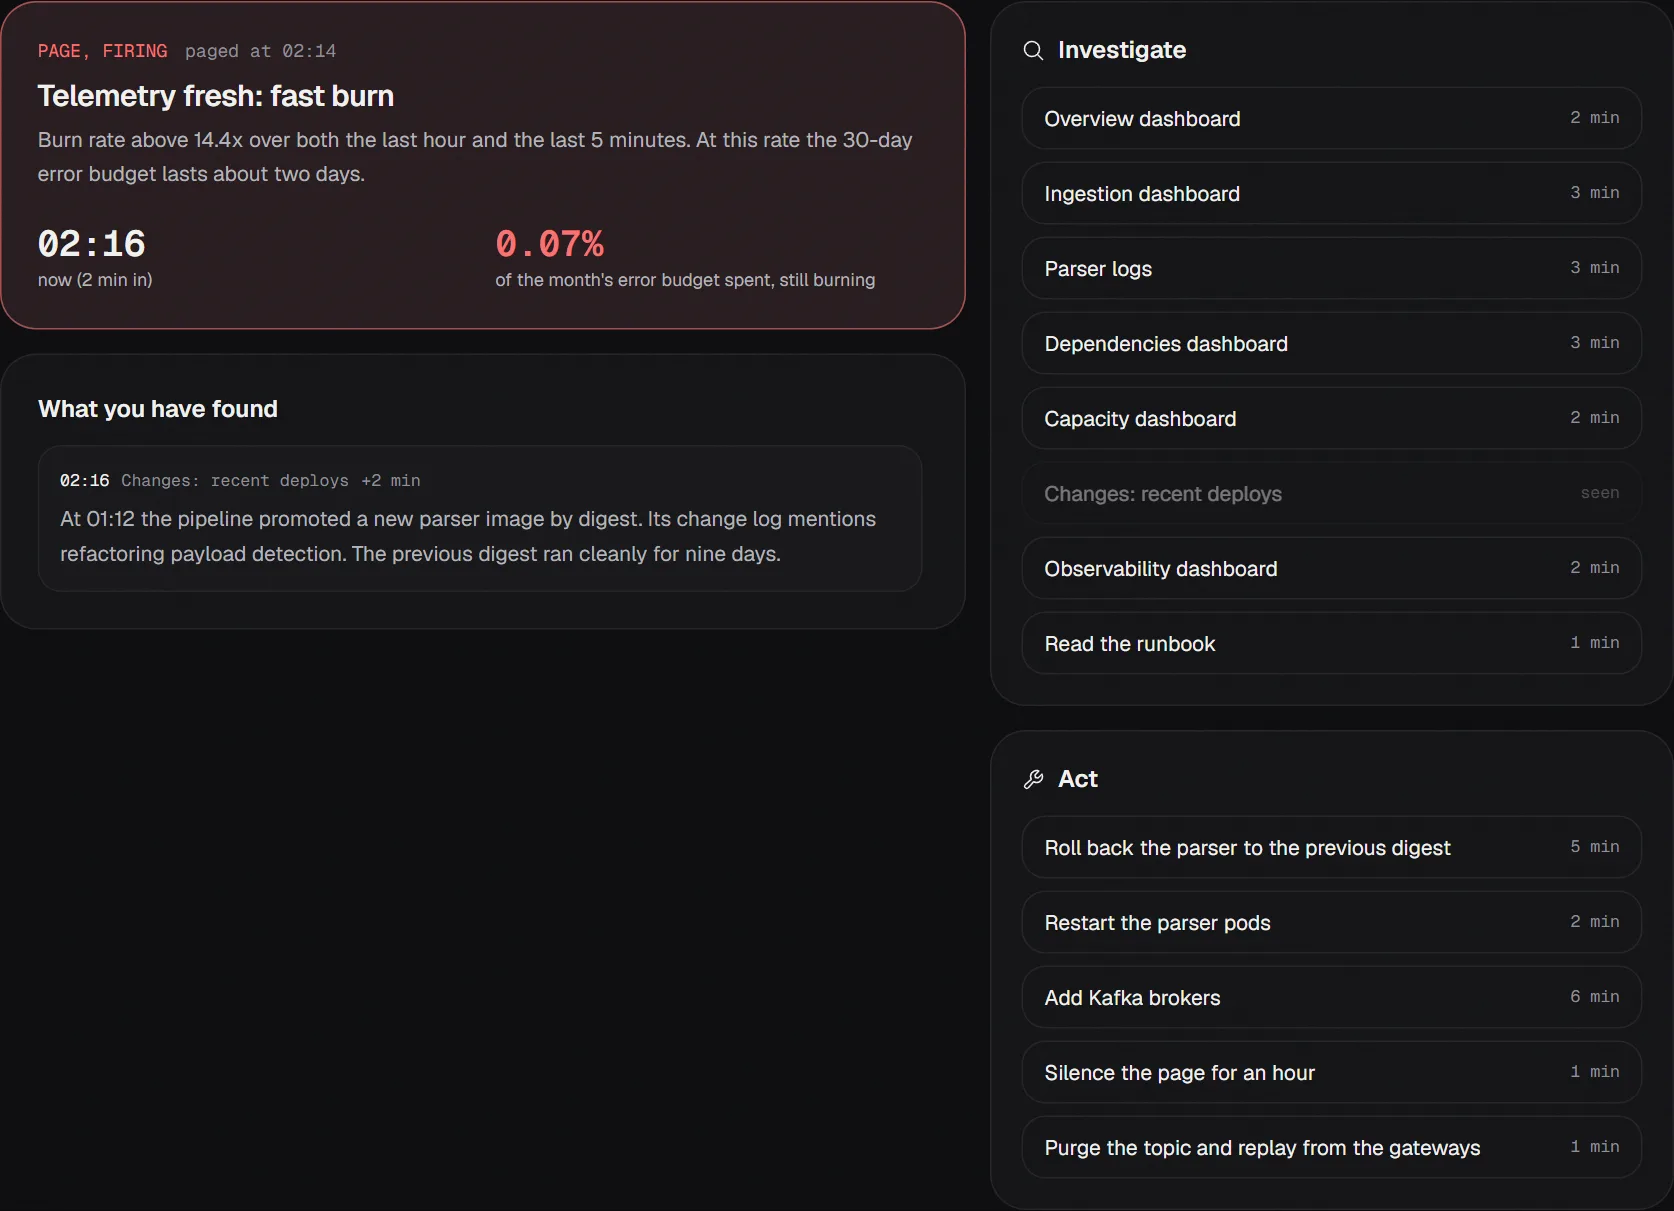
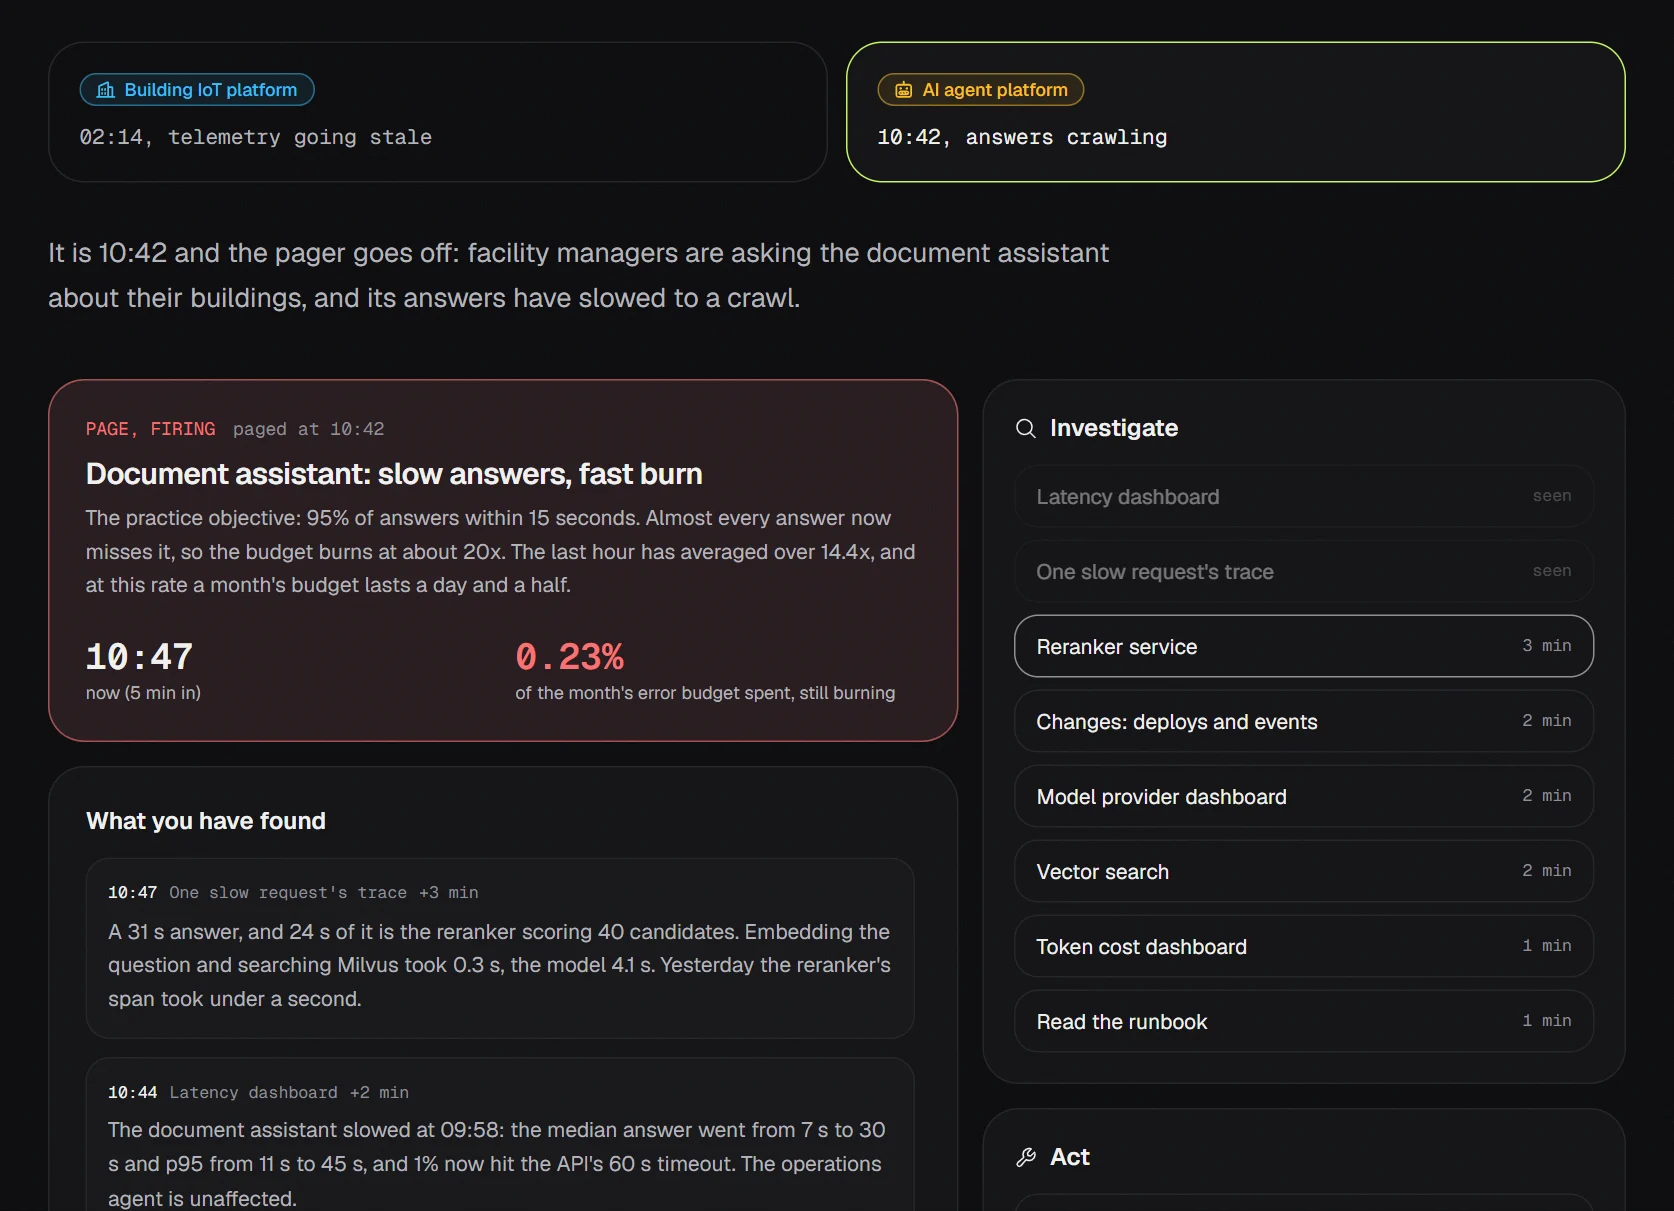
On-call drill: a realistic cause for the AI incident, and keyboard fixes
- The reranker no longer comes back "without its GPU" (a GPU machine
  does not start without one). Host maintenance restarts it, its GPU
  driver does not load, and the server quietly falls back to CPU; the
  fix reinstalls the driver.
- A look already played stays focusable (aria-disabled), so keyboard
  focus is not dropped after each one, and the findings feed takes
  focus once it scrolls.
- The share image's title fits on one line, and the README screenshot
  shows the picker with the AI drill paged.

diff --git a/web/src/content/oncall.ts b/web/src/content/oncall.ts
@@ -245,7 +245,7 @@ const ai: Scenario = {
       minutes: 3,
       evidence: "cause",
       result:
-        "It restarted at 09:57 and came back without its GPU. It is running the same cross-encoder on CPU, about 30 times slower, and its health check only asks whether it answers, so it reports healthy.",
+        "It restarted at 09:57 and came back on CPU: it could not reach its GPU, and the server falls back to CPU when it finds none. Same cross-encoder, about 30 times slower, and its health check only asks whether it answers, so it reports healthy.",
     },
     {
       id: "changes",
@@ -253,7 +253,7 @@ const ai: Scenario = {
       label: "Changes: deploys and events",
       minutes: 2,
       evidence: "change",
-      result: "No release for two days. One event, at 09:57: the reranker's instance was recreated, and the replacement has no GPU attached.",
+      result: "No release for two days. One event, at 09:57: host maintenance restarted the reranker's machine, and its GPU driver did not load on the way back up.",
     },
     {
       id: "provider",
@@ -341,11 +341,11 @@ const ai: Scenario = {
     {
       id: "restore",
       kind: "act",
-      label: "Give the reranker its GPU back, then turn reranking on",
+      label: "Get the reranker back on its GPU, then turn reranking on",
       minutes: 4,
       effect: "verify",
       result:
-        "The replacement instance gets its GPU and scores 40 candidates in 0.8 s again. With reranking back on, the median is back to 7 s and p95 to 11 s, and the page has cleared.",
+        "Reinstalling the driver and restarting the server puts the reranker back on its GPU: 40 candidates in 0.8 s again. With reranking back on, the median is back to 7 s and p95 to 11 s, and the page has cleared.",
     },
   ],
   checks: [
@@ -357,7 +357,7 @@ const ai: Scenario = {
     { kind: "always", text: "Restored full quality and watched latency hold before closing" },
   ],
   rootCause:
-    "Root cause: the reranker's instance was recreated at 09:57 without its GPU. It kept answering on CPU, about 30 times slower, and its health check only asked whether it answered, so nothing was down and nothing errored. One slow stage made every answer slow, and one trace showed which. Almost every answer missed the objective, a burn of about 20x, and a fast-burn page waits until the last hour averages over 14.4x: 43 minutes at 20x, which is why it came at 10:42. That wait is the price of a loose objective: at 95%, even a total failure burns at only 20x. The follow-ups a real postmortem would carry: alert on the reranker's own latency, not only on whether it answers, and refuse to start it without a GPU.",
+    "Root cause: host maintenance restarted the reranker's machine at 09:57, and its GPU driver did not load on the way back up. The server fell back to CPU without complaint, about 30 times slower, and its health check only asked whether it answered, so nothing was down and nothing errored. One slow stage made every answer slow, and one trace showed which. Almost every answer missed the objective, a burn of about 20x, and a fast-burn page waits until the last hour averages over 14.4x: 43 minutes at 20x, which is why it came at 10:42. That wait is the price of a loose objective: at 95%, even a total failure burns at only 20x. The follow-ups a real postmortem would carry: alert on the reranker's own latency, not only on whether it answers, and refuse to start it without a GPU.",
 };
 
 export const scenarios: Scenario[] = [iot, ai];

diff --git a/web/src/components/oncall/drill.tsx b/web/src/components/oncall/drill.tsx
@@ -126,8 +126,18 @@ export function Drill({ scenario }: { scenario: Scenario }) {
         </div>
 
         <div className="rounded-3xl border border-line bg-surface p-5 sm:p-6">
-          <p className="font-semibold">What you have found</p>
-          <div ref={feed} className="mt-3 max-h-[26rem] space-y-3 overflow-y-auto pr-1" aria-live="polite">
+          <p id={`oncall-found-${scenario.id}`} className="font-semibold">
+            What you have found
+          </p>
+          {/* It scrolls once it grows, so it takes focus: keyboard users can then scroll it with the arrow keys. */}
+          <div
+            ref={feed}
+            role="region"
+            aria-labelledby={`oncall-found-${scenario.id}`}
+            tabIndex={0}
+            className="mt-3 max-h-[26rem] space-y-3 overflow-y-auto rounded-2xl pr-1"
+            aria-live="polite"
+          >
             {log.length === 0 && <p className="text-sm text-ink-3">{scenario.emptyHint}</p>}
             {[...log].reverse().map((e) => (
               <div key={e.move.id + e.at} className="rounded-2xl border border-line bg-surface-2/60 p-3.5">
@@ -193,10 +203,11 @@ function MoveGroup({
             <li key={m.id}>
               <button
                 type="button"
-                disabled={done}
-                onClick={() => onPlay(m)}
+                // Not disabled: a disabled button drops keyboard focus, and the look just played is the focused one.
+                aria-disabled={done || undefined}
+                onClick={() => !done && onPlay(m)}
                 data-focus={m.effect === "verify" ? "verify" : undefined}
-                className="flex w-full items-center justify-between gap-3 rounded-2xl border border-line px-3.5 py-2.5 text-left text-sm transition-colors hover:border-ink-3 disabled:opacity-45 disabled:hover:border-line"
+                className="flex w-full items-center justify-between gap-3 rounded-2xl border border-line px-3.5 py-2.5 text-left text-sm transition-colors hover:border-ink-3 aria-disabled:cursor-default aria-disabled:opacity-45 aria-disabled:hover:border-line"
               >
                 <span>{m.label}</span>
                 <span className="shrink-0 font-mono text-[11px] text-ink-3">{done ? "seen" : `${m.minutes} min`}</span>

diff --git a/web/src/app/oncall/opengraph-image.tsx b/web/src/app/oncall/opengraph-image.tsx
@@ -10,7 +10,7 @@ export default function Image() {
   return ogImage({
     eyebrow: "Incident drills · IoT and AI platforms",
     eyebrowColor: ogTone.critical,
-    title: "You're on call. Pick an incident and the pager goes off.",
+    title: "You're on call. Pick an incident.",
     summary:
       "Stale telemetry on a building IoT platform at 02:14, or slow answers from an AI document assistant at 10:42. Investigate, stop the error budget burning, and get your own postmortem.",
     stats: [
